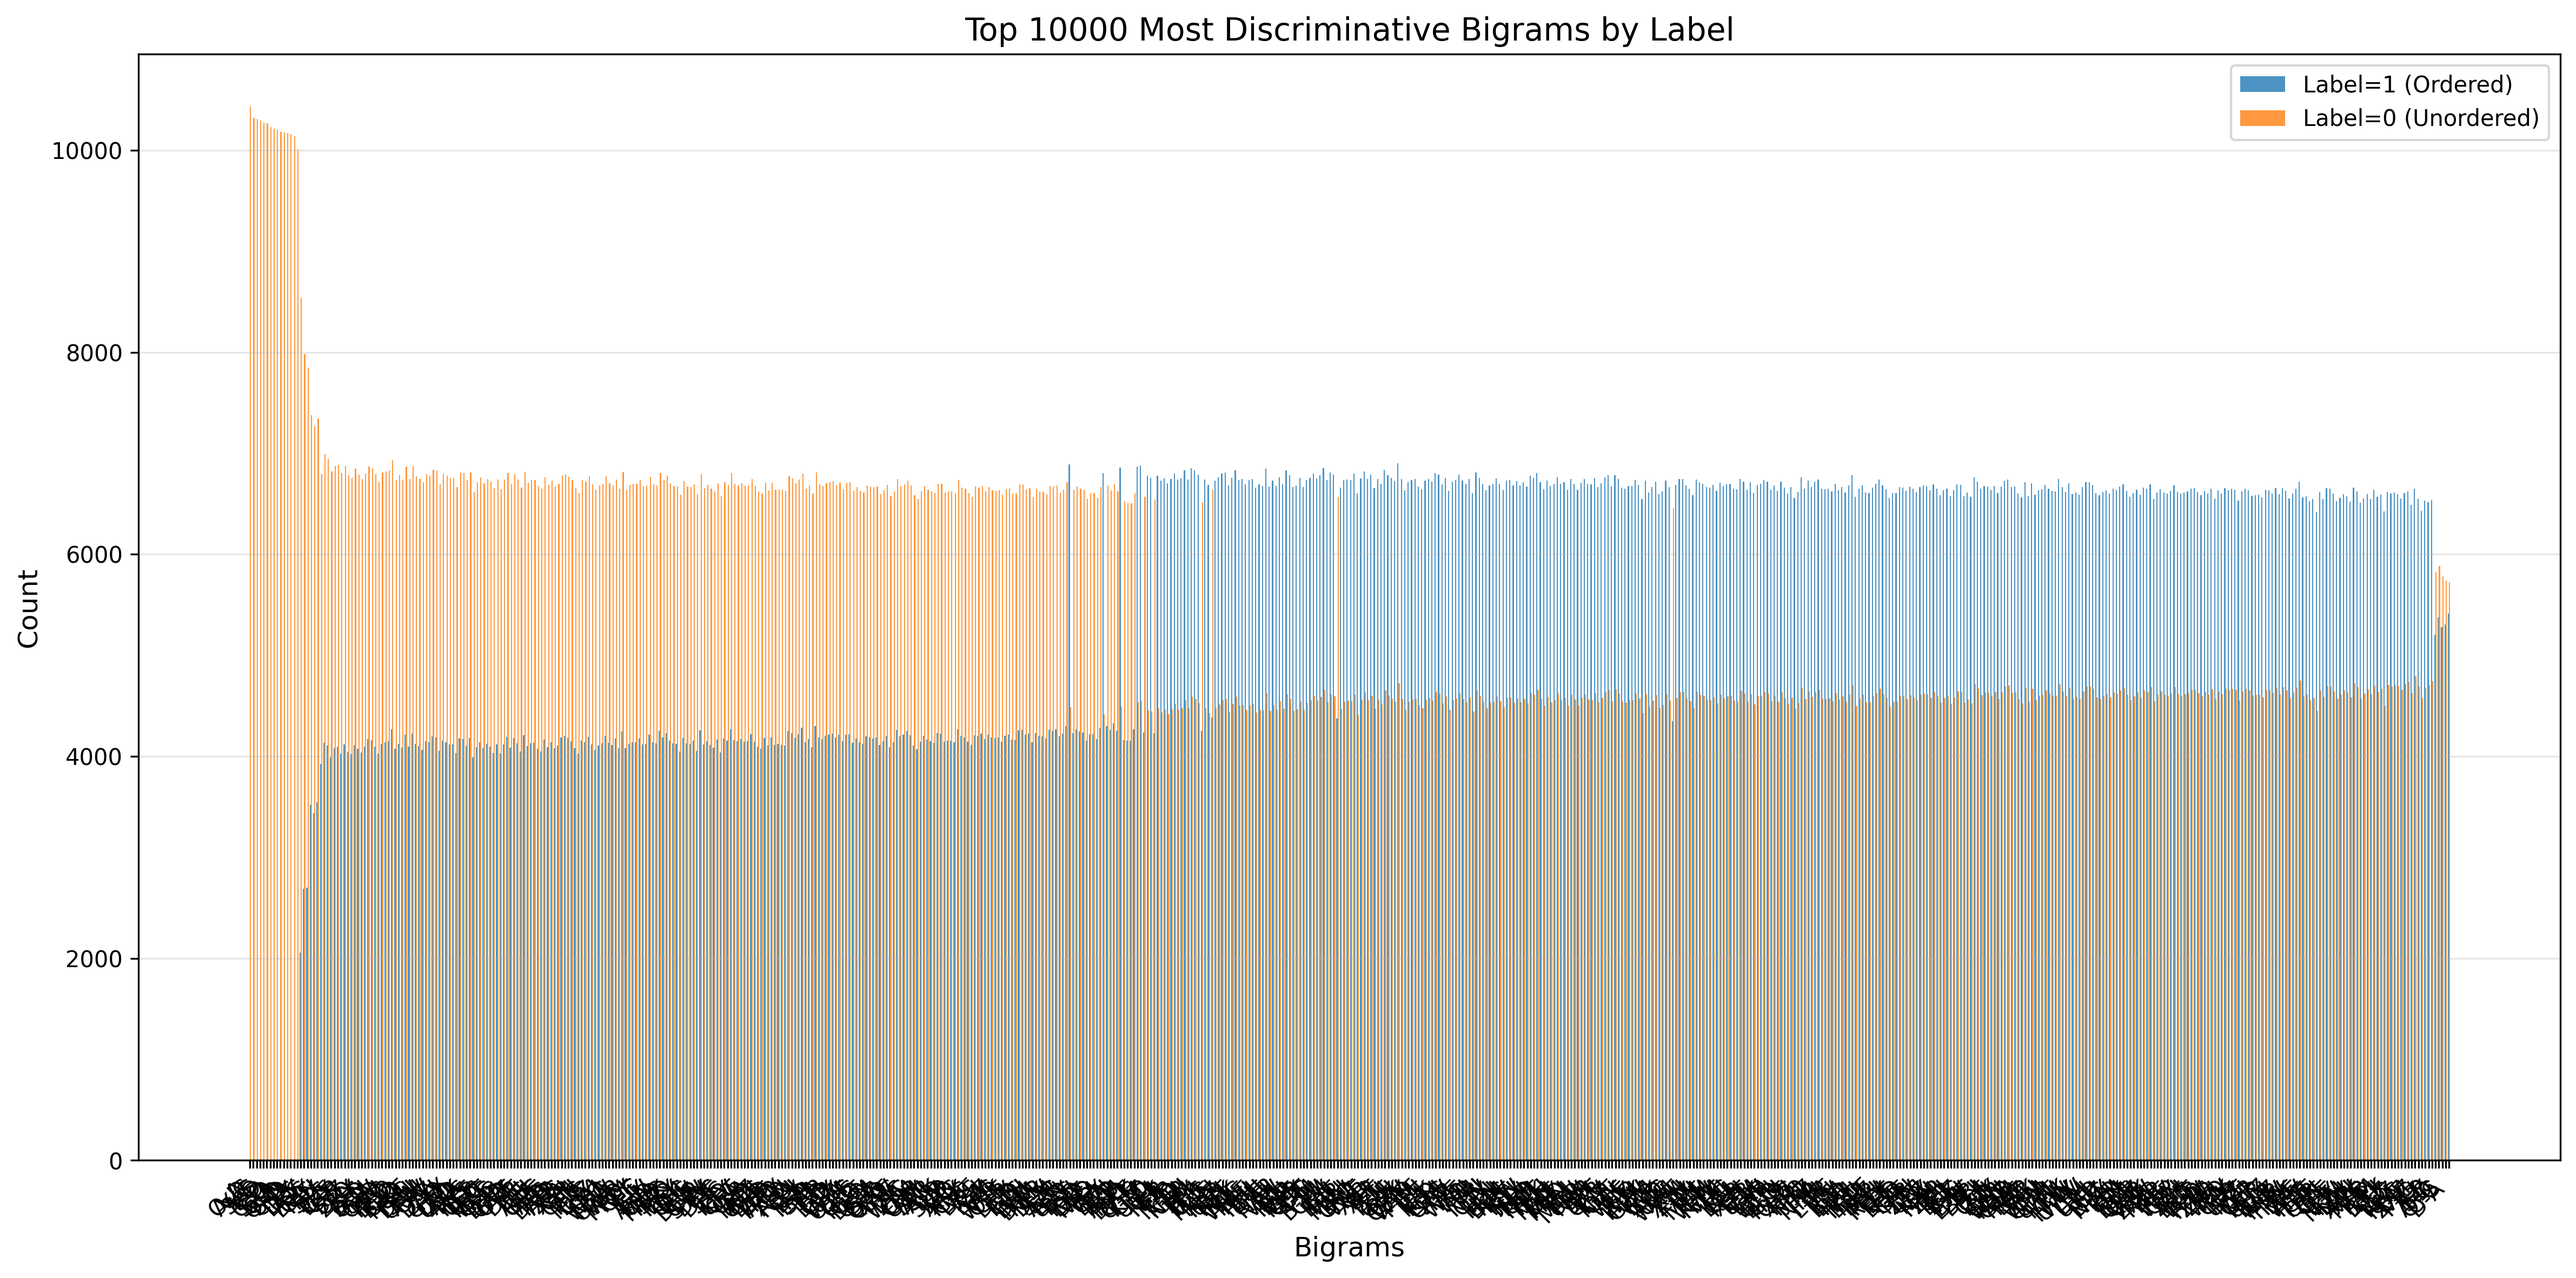
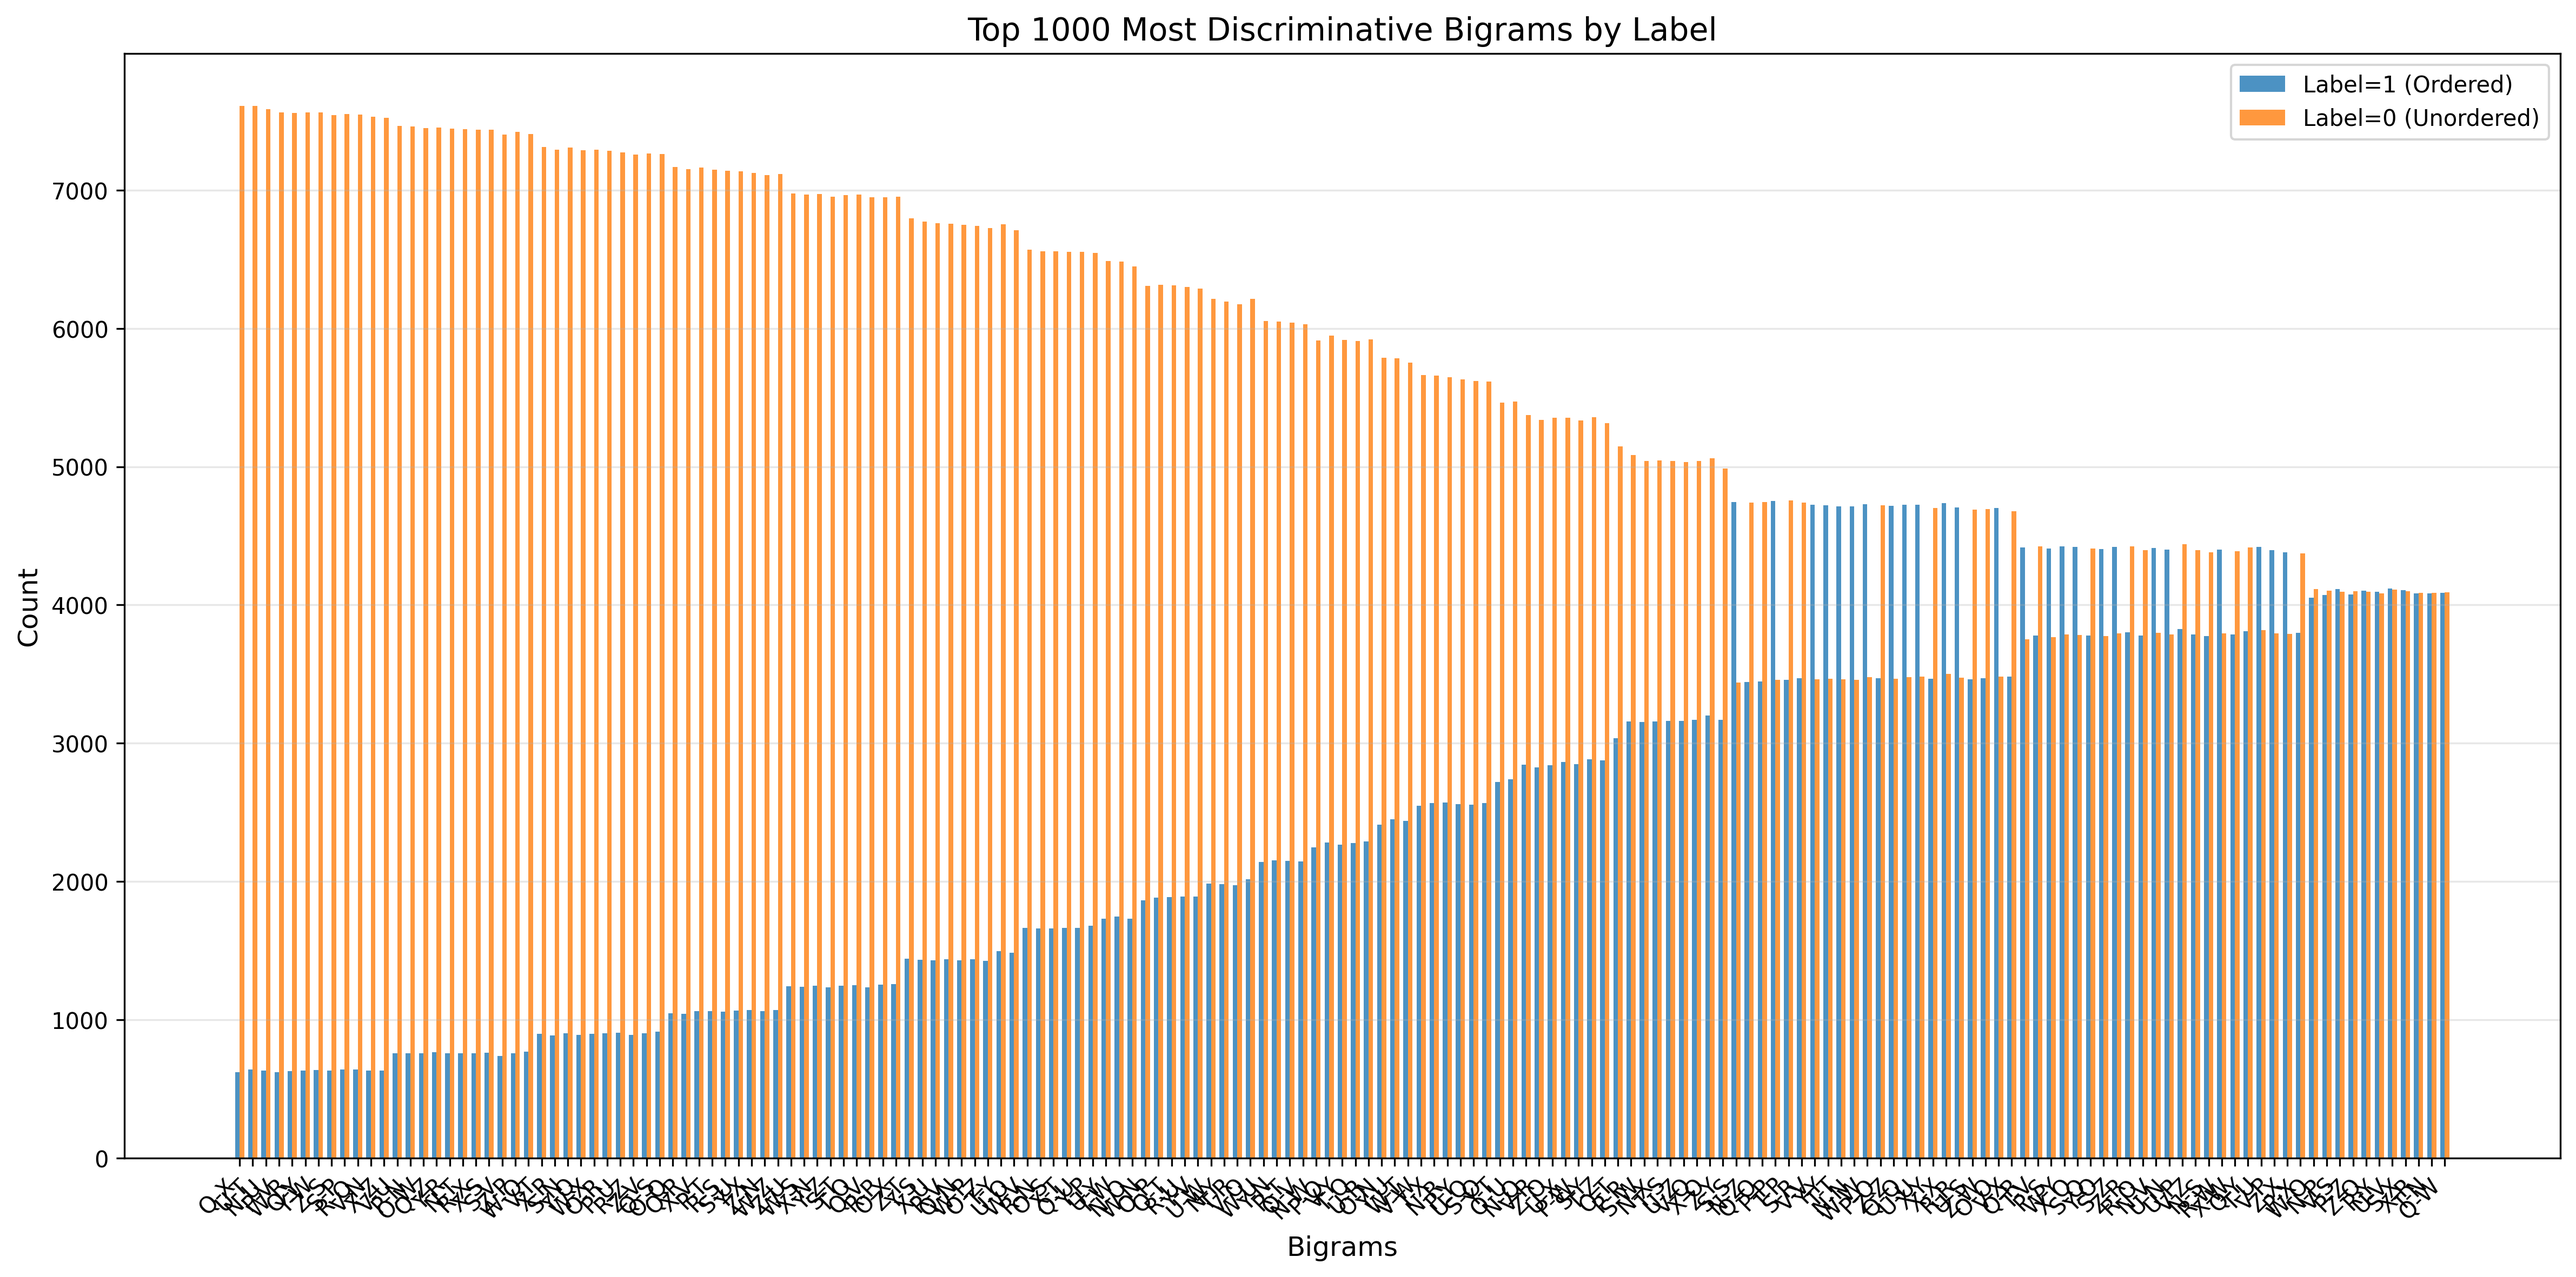
simulation-double

diff --git a/simulation/test_simulations_double.py b/simulation/test_simulations_double.py
@@ -75,8 +75,6 @@ def generate_sequences(
 
     return out_rows
 
-def generate_sequences_intervals():
-    pass
 
 # For parallelization
 def worker_generate(args):
@@ -98,7 +96,7 @@ def assign_outcome(seq:str, c_ord:dict, rnd:bool=False, sep:str="\x1f", already_
     else: 
         test_seq_splt = [x for x in seq if x in l_keys]
     
-    tolerance=False # For the cyclic ordering
+    tolerance=True # For the cyclic ordering
     for x,y in zip(test_seq_splt[:-1], test_seq_splt[1:]):
         if ((2*c_ord[x[0]])>(2*c_ord[y[0]])):
                 if tolerance:
@@ -130,8 +128,8 @@ def assign_outcome_numeric(seq:str, c_ord:dict, rnd:bool=False, sep:str="\x1f", 
 
 random.seed(959693)
 
-n_events = 9
-n_seq = 500_000_000
+n_events = 5
+n_seq = 1_000_000
 k =4
 n_0s = 1_000_000
 n_1s = 1_000_000
@@ -143,8 +141,9 @@ n_test = n_tot * 0.10
 #sum([n_train, n_test, n_val]) == n_tot
 
 letters = list(string.ascii_uppercase)
-letters_4_key = letters.copy()
-random.shuffle(letters_4_key)
+
+# letters_4_key = letters.copy()
+# random.shuffle(letters_4_key)
 # letters_4_key = ["W", "D", "Q", "J", "U", "H"]
 # digits = list(map(str, range(10)))
 
@@ -153,7 +152,7 @@ random.shuffle(letters_4_key)
 
 # c_vocab = {w:p for p,w in enumerate(letters_4_key,start=0)}
 
-# Test mio numerico
+# # Test mio numerico
 # c_vocab = {
 # 'C': 2, 
 # 'Q': 1,
@@ -182,47 +181,82 @@ random.shuffle(letters_4_key)
 # 'M': 2,
 # 'R': 1}
 
+# Test double alphabet
+start_n_stop = len(letters)//2
+train_letters = letters[:start_n_stop]
+test_letters = letters[start_n_stop:]
+
+key_order=random.sample(range(0, start_n_stop), k=start_n_stop)
+train_c_vocab, test_c_vocab = dict(zip(train_letters, key_order)), dict(zip(test_letters, key_order))
+
 
 # # This is sequential
-# sequences = generate_sequences(letters=letters, n=n_events, m=n_seq, replacement=False)
+train_sequences = generate_sequences(letters=train_letters, n=n_events, m=n_seq, replacement=True)
+test_sequences = generate_sequences(letters=test_letters, n=n_events, m=n_seq, replacement=True)
 
 # Parallel version
-n_cores = cpu_count()-1
-rng = np.random.default_rng(999)
-seeds = rng.integers(0, 2**31, size=n_cores)
-m_per_core = int(n_seq * 1.2 / n_cores)  # 20% oversample
-tasks = [(letters, n_events, m_per_core, True, seed) 
-             for seed in seeds]
+# n_cores = cpu_count()-1
+# rng = np.random.default_rng(999)
+# seeds = rng.integers(0, 2**31, size=n_cores)
+# m_per_core = int(n_seq * 1.2 / n_cores)  # 20% oversample
+# tasks = [(letters, n_events, m_per_core, True, seed) 
+#              for seed in seeds]
 
-with Pool(processes=n_cores) as pool:
-    results = pool.map(worker_generate, tasks)
+# with Pool(processes=n_cores) as pool:
+#     results = pool.map(worker_generate, tasks)
 
-# Deduplicate and trim
-all_sequences = [seq for result in results for seq in result]
-sequences = list(dict.fromkeys(all_sequences))[:n_seq]
+# # Deduplicate and trim
+# all_sequences = [seq for result in results for seq in result]
+# sequences = list(dict.fromkeys(all_sequences))[:n_seq]
 
-set_seq = set(sequences)
-n_set_seq = len(set_seq)
+train_set_seq = set(train_sequences)
+test_set_seq = set(test_sequences)
 
-if n_seq != n_set_seq:
-    print(f"Attention! There are {n_seq-n_set_seq} duplicates!\nRemoving them..")
-    sequences = set_seq.copy()
-    n_seq = n_set_seq
-    del set_seq, n_set_seq
+n_train_set_seq = len(train_set_seq)
+n_test_set_seq = len(test_set_seq)
+
+if n_seq != n_train_set_seq:
+    print(f"Attention! There are {n_seq-n_train_set_seq} trainig duplicates!\nRemoving them..")
+    train_sequences = train_set_seq.copy()
+    n_train_seq = n_train_set_seq
+    del train_set_seq, n_train_set_seq
     print("Done!")
 
-# check for my test:
-check=list(map(lambda x: assign_outcome_numeric(x, c_vocab), sequences))
+if n_seq != n_test_set_seq:
+    print(f"Attention! There are {n_seq-n_test_set_seq} trainig duplicates!\nRemoving them..")
+    test_sequences = test_set_seq.copy()
+    n_test_seq = n_test_set_seq
+    del test_set_seq, n_test_set_seq
+    print("Done!")
 
-if sum(check) > 0:
+# check for my training set:
+check_training=list(map(lambda x: assign_outcome(x, train_c_vocab), train_sequences))
+
+if sum(check_training) > 0:
     # There are some valid sequences
-    which_1s = list(filter(lambda x: assign_outcome_numeric(x, c_vocab, already_splitted=False)==1, sequences))
-    n_1s = len(which_1s)
-    print(f"There are {n_1s} ordered sequences! ({n_1s/len(sequences)*100:.2f}%)")
+    train_which_1s = list(filter(lambda x: assign_outcome(x, train_c_vocab, already_splitted=False)==1, train_sequences))
+    train_n_1s = len(train_which_1s)
+    print(f"There are {train_n_1s} ordered sequences! ({train_n_1s/len(train_sequences)*100:.2f}%)")
 
-which_0s = list(filter(lambda x: assign_outcome_numeric(x, c_vocab, already_splitted=False)==0, sequences))
-n_0s = len(which_0s)
-if (n_0s + n_1s) == len(sequences):
+train_which_0s = list(filter(lambda x: assign_outcome(x, train_c_vocab, already_splitted=False)==0, train_sequences))
+train_n_0s = len(train_which_0s)
+if (train_n_0s + train_n_1s) == len(train_sequences):
+    print("All good!")
+else:
+    print("Figures do not add up!")
+
+# check for my test set:
+check_test=list(map(lambda x: assign_outcome(x, test_c_vocab), test_sequences))
+
+if sum(check_test) > 0:
+    # There are some valid sequences
+    test_which_1s = list(filter(lambda x: assign_outcome(x, test_c_vocab, already_splitted=False)==1, test_sequences))
+    test_n_1s = len(test_which_1s)
+    print(f"There are {test_n_1s} ordered sequences! ({test_n_1s/len(test_sequences)*100:.2f}%)")
+
+test_which_0s = list(filter(lambda x: assign_outcome(x, test_c_vocab, already_splitted=False)==0, test_sequences))
+test_n_0s = len(test_which_0s)
+if (test_n_0s + test_n_1s) == len(test_sequences):
     print("All good!")
 else:
     print("Figures do not add up!")
@@ -245,15 +279,27 @@ def extract_characters(seq:str, sep:str="\x1f") -> str:
     seq_char = "-".join([x[0] for x in seq.split(sep)])
     return(seq_char)
 
-chr_seq_1s=list(map(extract_characters, which_1s))
-chr_seq_0s=list(map(extract_characters, which_0s))
+train_chr_seq_1s=list(map(extract_characters, train_which_1s))
+train_chr_seq_0s=list(map(extract_characters, train_which_0s))
 
 i = 0
-stats_1s, stats_0s = collections.Counter(x[i*2] for x in chr_seq_1s), collections.Counter(x[i*2] for x in chr_seq_0s)
+train_stats_1s, train_stats_0s = collections.Counter(x[i*2] for x in train_chr_seq_1s), collections.Counter(x[i*2] for x in train_chr_seq_0s)
 
 letters_ord = string.ascii_uppercase
-counts_1s = [stats_1s.get(letter, 0) for letter in letters_ord]
-counts_0s = [stats_0s.get(letter, 0) for letter in letters_ord]
+counts_1s = [train_stats_1s.get(letter, 0) for letter in letters_ord]
+counts_0s = [train_stats_0s.get(letter, 0) for letter in letters_ord]
+
+# Test
+test_chr_seq_1s=list(map(extract_characters, test_which_1s))
+test_chr_seq_0s=list(map(extract_characters, test_which_0s))
+
+i = 0
+test_stats_1s, test_stats_0s = collections.Counter(x[i*2] for x in test_chr_seq_1s), collections.Counter(x[i*2] for x in test_chr_seq_0s)
+
+letters_ord = string.ascii_uppercase
+counts_1s = [test_stats_1s.get(letter, 0) for letter in letters_ord]
+counts_0s = [test_stats_0s.get(letter, 0) for letter in letters_ord]
+
 
 # Plot affiancato
 x = np.arange(len(letters_ord))
@@ -271,53 +317,20 @@ ax.legend()
 plt.show()
 
 
-# Create Dataset
-df = pd.DataFrame({"Sequences":sequences})
-df["Outcome"] = list(map(lambda x: assign_outcome_numeric(x, c_vocab), sequences))
+# Create Training Dataset
+df_train = pd.DataFrame({"Sequences":list(train_sequences)})
+df_train["Outcome"] = list(map(lambda x: assign_outcome(x, train_c_vocab), df_train.Sequences))
 
-df_1s = df.loc[df["Outcome"]==1, ].sample(n_1s)
-df_0s = df.loc[df["Outcome"]==0, ].sample(n_0s)
-df_full = pd.concat([df_1s, df_0s], ignore_index=True)
+df_test = pd.DataFrame({"Sequences":list(test_sequences)})
+df_test["Outcome"] = list(map(lambda x: assign_outcome(x, test_c_vocab), df_test.Sequences))
 
-# Diagnostics graphs
-which_1s_sel = list(df_full.loc[df_full["Outcome"]==1, "Sequences"])
-which_0s_sel = list(df_full.loc[df_full["Outcome"]==0, "Sequences"])
 
-chr_seq_1s=list(map(extract_characters, which_1s_sel))
-chr_seq_0s=list(map(extract_characters, which_0s_sel))
-
-i = 0
-stats_1s, stats_0s = collections.Counter(x[i*2] for x in chr_seq_1s), collections.Counter(x[i*2] for x in chr_seq_0s)
-
-letters_ord = string.ascii_uppercase
-counts_1s = [stats_1s.get(letter, 0) for letter in letters_ord]
-counts_0s = [stats_0s.get(letter, 0) for letter in letters_ord]
-
-# Plot affiancato
-x = np.arange(len(letters_ord))
-width = 0.35  # Larghezza barre
-
-fig, ax = plt.subplots(figsize=(12, 6))
-ax.bar(x - width/2, counts_1s, width, label='Label=1', alpha=0.8)
-ax.bar(x + width/2, counts_0s, width, label='Label=0', alpha=0.8)
-ax.set_xlabel('Letters')
-ax.set_ylabel('Count')
-ax.set_title(f'{i+1}st/nd Letter Frequency by Label')
-ax.set_xticks(x)
-ax.set_xticklabels(letters_ord)
-ax.legend()
-plt.show()
 
 # Splitting Train Val Test
 # Now train_val_test split:
-X, y = df_full["Sequences"], df_full["Outcome"]
-X_train, X_val_test, y_train, y_val_test = train_test_split(X, y, train_size=0.80, random_state=999)
-X_val, X_test, y_val, y_test = train_test_split(X_val_test, y_val_test, train_size=0.50, random_state=999)
-
-# Uncomment just if you want to save data!
-# for df, name in zip([X_train, X_val, X_test, y_train, y_val, y_test], ["X_train_2", "X_val_2", "X_test_2", "y_train_2", "y_val_2", "y_test_2"]):
-#     df.to_csv(f"data/simulation/{name}.csv", index=False)
-
+X_train_val, y_train_val = df_train["Sequences"], df_train["Outcome"]
+X_train, X_val, y_train, y_val = train_test_split(X_train_val, y_train_val, train_size=0.90, random_state=999)
+X_test, y_test = df_test["Sequences"], df_test["Outcome"]
 
 # Let's visualize bigrams
 def plot_bigram_distribution(X_train, y_train, top_n=30):
@@ -393,3 +406,10 @@ def plot_bigram_distribution(X_train, y_train, top_n=30):
 
 # Esegui
 plot_bigram_distribution(X_train, y_train, top_n=1000)
+
+plot_bigram_distribution(X_test, y_test, top_n=1000)
+
+
+# Uncomment just if you want to save data!
+for df, name in zip([X_train, X_val, X_test, y_train, y_val, y_test], ["X_train_3", "X_val_3", "X_test_3", "y_train_3", "y_val_3", "y_test_3"]):
+    df.to_csv(f"data/simulation/{name}.csv", index=False)

diff --git a/src/Finetuning_DC_time_simulation.py b/src/Finetuning_DC_time_simulation.py
@@ -62,22 +62,22 @@ def parse_args(args=None):
 
     # Data
     ## Train
-    parser.add_argument("--X_train_csv", type=str, default="/root/MIMICIV/data/simulation/X_s_train_2.csv",
+    parser.add_argument("--X_train_csv", type=str, default="/root/MIMICIV/data/simulation/X_train_3.csv",
                         help="Path to file CSV di training")
     
-    parser.add_argument("--y_train_csv", type=str, default="/root/MIMICIV/data/simulation/y_s_train_2.csv",
+    parser.add_argument("--y_train_csv", type=str, default="/root/MIMICIV/data/simulation/y_train_3.csv",
                         help="Path to file CSV di training")
     ## Val
-    parser.add_argument("--X_val_csv", type=str, default="/root/MIMICIV/data/simulation/X_s_val_2.csv",
+    parser.add_argument("--X_val_csv", type=str, default="/root/MIMICIV/data/simulation/X_val_3.csv",
                         help="Path to file CSV di validation")
     
-    parser.add_argument("--y_val_csv", type=str, default="/root/MIMICIV/data/simulation/y_s_val_2.csv",
+    parser.add_argument("--y_val_csv", type=str, default="/root/MIMICIV/data/simulation/y_val_3.csv",
                         help="Path to file CSV di training")
     ## Test
-    parser.add_argument("--X_test_csv", type=str, default="/root/MIMICIV/data/simulation/X_s_test_2.csv",
+    parser.add_argument("--X_test_csv", type=str, default="/root/MIMICIV/data/simulation/X_test_3.csv",
                         help="Path to file CSV di validation")
     
-    parser.add_argument("--y_test_csv", type=str, default="/root/MIMICIV/data/simulation/y_s_test_2.csv",
+    parser.add_argument("--y_test_csv", type=str, default="/root/MIMICIV/data/simulation/y_test_3.csv",
                         help="Path to file CSV di training")
 
     # Prompts

diff --git a/simulation/main_parallel.py b/simulation/main_parallel.py
@@ -144,7 +144,7 @@ n_cores = cpu_count()-1
 rng = np.random.default_rng(999)
 seeds = rng.integers(0, 2**31, size=n_cores)
 m_per_core = int(n_seq * 1.2 / n_cores)  # 20% oversample
-tasks = [(letters, digits, n_events, m_per_core, False, seed) 
+tasks = [(letters, digits, n_events, m_per_core, True, seed) # True: with replacement
              for seed in seeds]
 
 with Pool(processes=n_cores) as pool:
